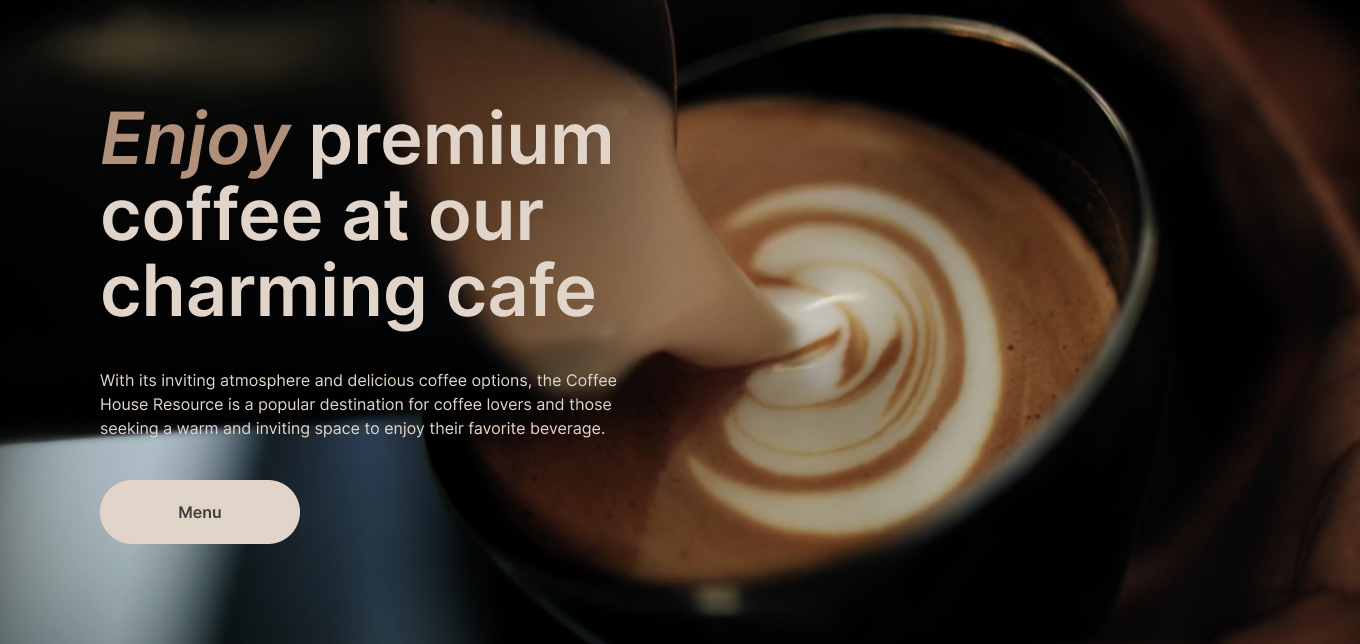
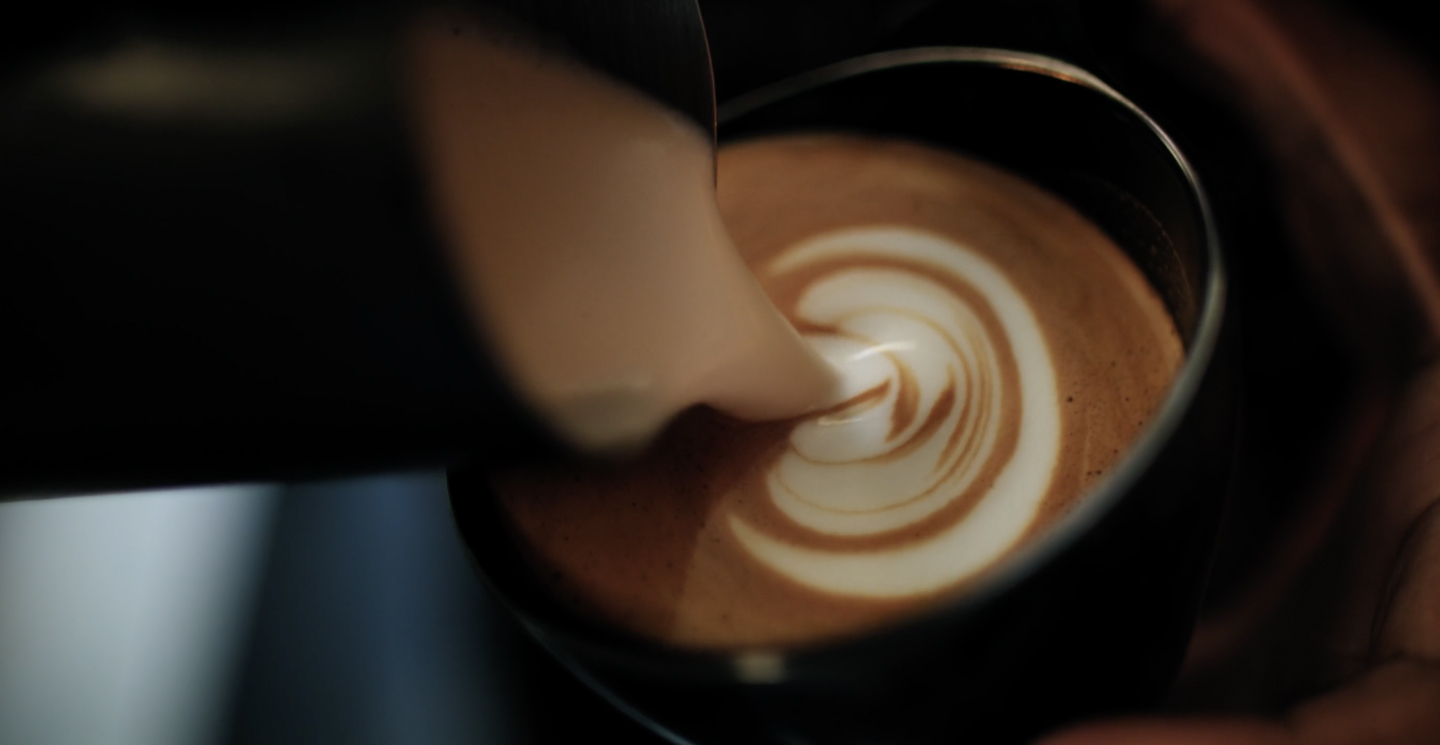
style: added var color and common style

diff --git a/css/style.scss b/css/style.scss
@@ -19,8 +19,68 @@
   font-style: normal;
   font-display: swap;
 }
+:root {
+  --text-primary: #403f3d;
+  --text-inverse: #e1d4c9;
+  --text-accent: #b0907a;
+
+  --background-page: #e1d4c9;
+  --background-container: #665f55;
+  --background-overlay: rgba(#403f3d, 0.8);
+
+  --border-primary: #c1b6ad;
+  --border-inverse: #665f55;
+
+  .dark-theme {
+    --text-primary: #e1d4c9;
+    --text-inverse: #e1d4c9;
+    --text-accent: #b0907a;
+
+    --background-page: #292826;
+    --background-container: #403f3d;
+    --background-overlay: rgba(#292826, 0.8);
+
+    --border-primary: #665f55;
+    --border-inverse: #c1b6ad;
+  }
+}
+.heading-1 {
+  font-size: 4.5rem;
+  font-weight: 600;
+  line-height: 1.05;
+  .accent {
+    font-style: italic;
+    color: var(--text-accent);
+  }
+}
+.heading-2 {
+  font-size: 3.75rem;
+  font-weight: 600;
+  line-height: 1.25;
+  .accent {
+    font-style: italic;
+    color: var(--text-accent);
+  }
+}
+.heading-3 {
+  font-size: 1.5rem;
+  font-weight: 600;
+  line-height: 1.25;
+}
+.caption {
+  font-size: 0.625rem;
+  font-weight: 600;
+  line-height: 1.4;
+}
+.text-action {
+  font-weight: 600;
+}
+
 body {
   font-family: 'Inter', sans-serif;
+  line-height: 1.5;
+  background-color: var(--background-page);
+  color: var(--text-primary);
 }
 .wrapper {
   min-height: 100%;

diff --git a/css/style.css b/css/style.css
@@ -19,8 +19,68 @@
   font-style: normal;
   font-display: swap;
 }
+:root {
+  --text-primary: #403f3d;
+  --text-inverse: #e1d4c9;
+  --text-accent: #b0907a;
+  --background-page: #e1d4c9;
+  --background-container: #665f55;
+  --background-overlay: rgba(#403f3d, 0.8);
+  --border-primary: #c1b6ad;
+  --border-inverse: #665f55;
+}
+:root .dark-theme {
+  --text-primary: #e1d4c9;
+  --text-inverse: #e1d4c9;
+  --text-accent: #b0907a;
+  --background-page: #292826;
+  --background-container: #403f3d;
+  --background-overlay: rgba(#292826, 0.8);
+  --border-primary: #665f55;
+  --border-inverse: #c1b6ad;
+}
+
+.heading-1 {
+  font-size: 4.5rem;
+  font-weight: 600;
+  line-height: 1.05;
+}
+.heading-1 .accent {
+  font-style: italic;
+  color: var(--text-accent);
+}
+
+.heading-2 {
+  font-size: 3.75rem;
+  font-weight: 600;
+  line-height: 1.25;
+}
+.heading-2 .accent {
+  font-style: italic;
+  color: var(--text-accent);
+}
+
+.heading-3 {
+  font-size: 1.5rem;
+  font-weight: 600;
+  line-height: 1.25;
+}
+
+.caption {
+  font-size: 0.625rem;
+  font-weight: 600;
+  line-height: 1.4;
+}
+
+.text-action {
+  font-weight: 600;
+}
+
 body {
   font-family: "Inter", sans-serif;
+  line-height: 1.5;
+  background-color: var(--background-page);
+  color: var(--text-primary);
 }
 
 .wrapper {
